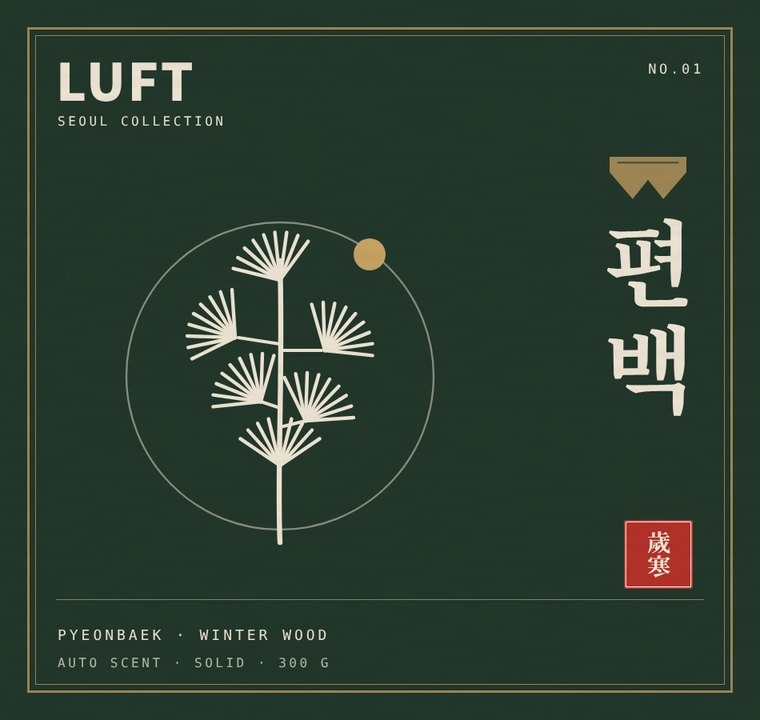
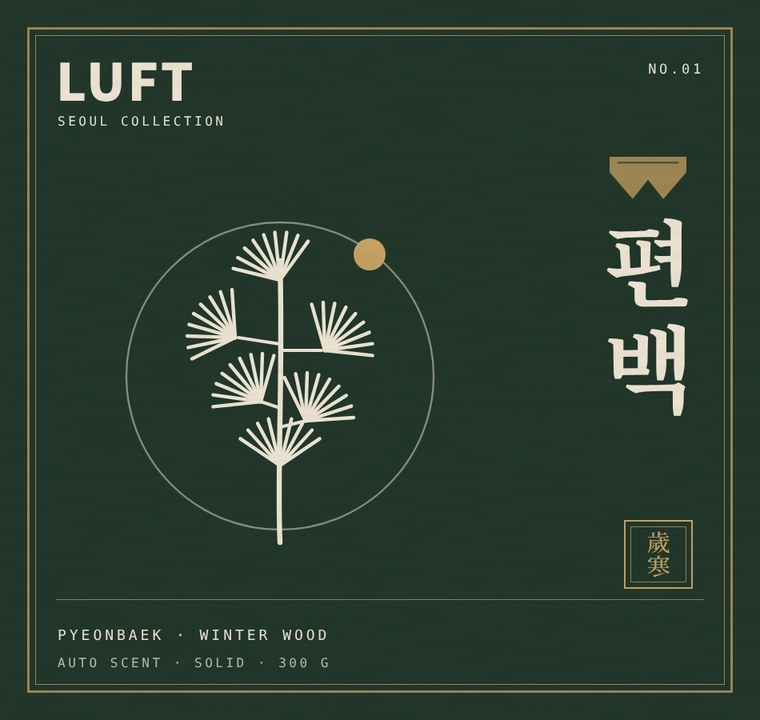
LUFT: 빨간 낙관 제거 → 금·먹 헤어라인 표식으로 교체 (사이트·패키지 이미지)
Claude-Session: https://claude.ai/code/session_01CHRf4KTcqoW5MpopzikoD1

Changed region(s): [[0.8171, 0.7028, 0.9382, 0.825]]

diff --git a/index.html b/index.html
@@ -370,10 +370,11 @@ body::after{content:"";position:fixed;inset:0;z-index:80;pointer-events:none;opa
 </style>
 <style>
 /* ===== 2026-11 개편: 케이스 + AUTO SCENT 전문. 고서 판식(이중 테두리)·어미·낙관을 포인트로 ===== */
-:root{--f-serif:"Noto Serif KR","Nanum Myeongjo",serif;--pine:#22372B;--celadon:#9FBBA9;--moon:#EEE9DF;--seal:#B5322A;--gold:#C9A464}
+:root{--f-serif:"Noto Serif KR","Nanum Myeongjo",serif;--pine:#22372B;--celadon:#9FBBA9;--moon:#EEE9DF;--gold:#C9A464}
 .pansik{position:relative;border:3px solid currentColor}
 .pansik::after{content:"";position:absolute;inset:6px;border:1px solid currentColor;pointer-events:none}
-.seal{display:inline-flex;flex-direction:column;align-items:center;justify-content:center;background:var(--seal);color:#F7EFE2;font-family:var(--f-serif);font-weight:700;line-height:1.02;border-radius:3px;box-shadow:inset 0 0 0 2px var(--seal),inset 0 0 0 3.5px #F7EFE2;letter-spacing:.02em;flex:none}
+.seal{position:relative;display:inline-flex;flex-direction:column;align-items:center;justify-content:center;background:transparent;font-family:var(--f-serif);font-weight:500;line-height:1.1;border:1px solid currentColor;letter-spacing:.02em;flex:none}
+.seal::after{content:"";position:absolute;inset:3px;border:.5px solid currentColor;opacity:.7;pointer-events:none}
 .seal .sl{all:unset;display:block;line-height:1.02;font:inherit;color:inherit;writing-mode:horizontal-tb}
 @media(max-width:520px){.trust .t b{font-size:17px;word-break:keep-all;line-height:1.3}.trust .t span{word-break:keep-all}}
 .eomi{display:inline-block;width:30px;height:16px;background:currentColor;clip-path:polygon(0 0,100% 0,100% 40%,70% 100%,50% 62%,30% 100%,0 40%)}
@@ -450,7 +451,7 @@ body::after{content:"";position:fixed;inset:0;z-index:80;pointer-events:none;opa
 @media (max-width:760px){.chap .row{grid-template-columns:1fr}.chap:nth-of-type(even) .row .art{order:0}}
 /* motion */
 @keyframes fanOut{from{transform:rotate(0)}to{transform:rotate(var(--r))}}
-@keyframes stampIn{0%,55%{opacity:0;transform:scale(1.8)}65%{opacity:1;transform:scale(.92)}72%,100%{opacity:1;transform:scale(1)}}
+@keyframes stampIn{0%,45%{opacity:0;transform:translateY(3px)}70%,100%{opacity:1;transform:none}}
 @keyframes drip{0%{transform:translateY(-40px);opacity:0}15%{opacity:1}55%{transform:translateY(58px);opacity:1}60%,100%{transform:translateY(58px);opacity:0}}
 @keyframes swirl{to{transform:rotate(360deg)}}
 @keyframes fillUp{0%,10%{transform:scaleY(.15)}60%,100%{transform:scaleY(1)}}
@@ -1120,7 +1121,8 @@ const SCENTS=[
  {k:'yuzu',ko:'청자',han:'翡色',hanR:'비색',en:'CELADON · YUZU',no:'02',note:'유자 · 청귤 · 산뜻한 초록',line:'고려 사람들은 청자의 빛을 비색(翡色)이라 했어요. 그 푸른 빛 위로 떨어진 노란 유자 한 알.',bg:'#9FBBA9',ink:'#183428',ln:'rgba(24,52,40,.55)',hb:'#EFE3C4'},
  {k:'tea',ko:'달항아리',han:'白',hanR:'백',en:'MOON JAR · KOREAN TEA',no:'03',note:'한국 차 · 따뜻한 김 · 포근함',line:'넉넉하게 둥근 백자 달항아리, 그 곁에 놓인 따뜻한 차 한 잔의 향.',bg:'#EEE9DF',ink:'#2A2722',ln:'rgba(42,39,34,.5)',hb:'#EDE2D6'}];
 const NOTIFY_URL='https://formsubmit.co/ajax/probe2928@gmail.com';
-const sealH=(t,sz=36)=>`<span class="seal" style="width:${sz}px;height:${sz}px;font-size:${t.length>1?sz*.36:sz*.56}px">${[...t].map(c=>`<span class="sl">${c}</span>`).join("")}</span>`;
+const MK={pine:"#C9A464",yuzu:"#183428",tea:"#2A2722"};
+const sealH=(t,sz=36,c)=>`<span class="seal" style="${c?`color:${c};`:""}width:${sz}px;height:${sz}px;font-size:${t.length>1?sz*.36:sz*.56}px">${[...t].map(c=>`<span class="sl">${c}</span>`).join("")}</span>`;
 function filmHTML(){const rm=matchMedia('(prefers-reduced-motion: reduce)').matches,v=matchMedia('(max-aspect-ratio: 1/1)').matches,o=v?'v':'h';
  return `<section class="lx-film" aria-label="LUFT AUTO SCENT 브랜드 필름">${rm?`<img src="img/scent/film-poster-${o}.jpg" alt="LUFT AUTO SCENT 브랜드 필름 장면 — 편백 歲寒">`:`<video id="lxFilm" src="video/luft-film-${o}.mp4" poster="img/scent/film-poster-${o}.jpg" autoplay muted loop playsinline preload="metadata" aria-label="LUFT AUTO SCENT 20초 브랜드 필름"></video>`}
  <div class="fo"><a class="cta" href="#scent">출시 알림 받기 <span class="arr">→</span></a><a class="cta ghostbtn" href="#story">만든 이야기</a></div></section>`}
@@ -1141,7 +1143,7 @@ function heroHTML(){const s=SCENTS[0];return `<section class="lx-hero" id="lxHer
 function scentCard(x){return `<a class="sc-card pansik reveal" href="#scent" style="--cb:${x.bg};--ci:${x.ink};--cl:${x.ln}">
  <span class="no">NO.${x.no} · ${x.en}</span>
  <img src="img/scent/jar-${x.k}.webp" alt="${x.ko} ${x.han} 용기 디자인 시안" loading="lazy" decoding="async">
- <div class="nm"><span class="eomi" style="color:${x.ln}"></span><h3>${x.ko}</h3>${sealH(x.han)}</div>
+ <div class="nm"><span class="eomi" style="color:${x.ln}"></span><h3>${x.ko}</h3>${sealH(x.han,38,MK[x.k])}</div>
  <p>${x.line}</p><div class="notes">${x.note}</div></a>`}
 function scentHTML(){return `<section class="sc-sec" id="auto-scent"><div class="wrap">
  <div class="sc-head reveal"><div><span class="sc-tag">COMING SOON · 출시 예정</span><h2>AUTO<br>SCENT</h2></div>
@@ -1164,7 +1166,7 @@ function nfHTML(id){return `<form class="nf pansik" id="${id}" novalidate>
  <button class="cta" type="submit" style="margin-top:12px">알림 받기 <span class="arr">→</span></button>
  <div class="st" role="status" aria-live="polite"></div></form>`}
 const ART={
- find:`<svg viewBox="0 0 200 200" fill="none" stroke="currentColor" stroke-width="1.4">${[-40,-20,0,20,40].map((r,i)=>`<g class="fan" style="--r:${r}deg;animation-delay:${i*90}ms"><rect x="93" y="44" width="14" height="128" rx="2" fill="#FFFDF8"/><path d="M96 150 h8 M96 155 h8" opacity=".5"/></g>`).join('')}<circle cx="100" cy="172" r="4" fill="currentColor"/><g class="stamp mv"><rect x="87" y="30" width="26" height="26" rx="2" fill="#B5322A" stroke="none"/><text x="100" y="49" text-anchor="middle" font-size="15" fill="#F7EFE2" stroke="none" font-family="Noto Serif KR,serif" font-weight="700">香</text></g></svg>`,
+ find:`<svg viewBox="0 0 200 200" fill="none" stroke="currentColor" stroke-width="1.4">${[-40,-20,0,20,40].map((r,i)=>`<g class="fan" style="--r:${r}deg;animation-delay:${i*90}ms"><rect x="93" y="44" width="14" height="128" rx="2" fill="#FFFDF8"/><path d="M96 150 h8 M96 155 h8" opacity=".5"/></g>`).join('')}<circle cx="100" cy="172" r="4" fill="currentColor"/><g class="stamp mv"><rect x="87" y="30" width="26" height="26" fill="#FFFDF8" stroke="currentColor" stroke-width="1"/><rect x="90" y="33" width="20" height="20" fill="none" stroke="currentColor" stroke-width=".5" opacity=".7"/><text x="100" y="48" text-anchor="middle" font-size="12" fill="currentColor" stroke="none" font-family="Noto Serif KR,serif" font-weight="500">香</text></g></svg>`,
  blend:`<svg viewBox="0 0 200 200" fill="none" stroke="currentColor" stroke-width="1.6"><defs><clipPath id="bk"><path d="M70 92 h60 v66 a12 12 0 0 1 -12 12 h-36 a12 12 0 0 1 -12 -12z"/></clipPath></defs>
   <g clip-path="url(#bk)"><rect class="liq" x="66" y="104" width="68" height="70" fill="#C9D8B8" stroke="none"/></g><path d="M70 92 h60 v66 a12 12 0 0 1 -12 12 h-36 a12 12 0 0 1 -12 -12z"/><path d="M64 92 h72"/>
   ${[['#2E4A39',82,0],['#E9C23F',100,.8],['#D8CBB2',118,1.6]].map(([c,x,d])=>`<circle class="drop" cx="${x}" cy="40" r="6" fill="${c}" stroke="none" style="animation-delay:${d}s"/>`).join('')}
@@ -1173,9 +1175,9 @@ const ART={
   <g font-family="Noto Serif KR,serif" font-size="22" font-weight="700" fill="currentColor" stroke="none" text-anchor="middle"><text class="v1" x="100" y="108">다시</text><text class="v2" x="100" y="108">또 다시</text><text class="v3" x="100" y="108">한 번 더</text></g></svg>`,
  vessel:`<svg viewBox="0 0 200 200" fill="none" stroke="currentColor" stroke-width="1.6"><path class="dr" style="--len:520" d="M56 62 h88 v104 a8 8 0 0 1 -8 8 h-72 a8 8 0 0 1 -8 -8z"/><path class="dr" style="--len:200;animation-delay:.4s" d="M52 44 h96 v18 h-96z"/>
   <path class="dr" style="--len:300;animation-delay:.9s" stroke-width="2.4" d="M62 92 h76 v52 h-76z"/><path class="dr" style="--len:290;animation-delay:1.1s" stroke-width=".8" d="M66 96 h68 v44 h-68z"/>
-  <g class="stamp mv" style="animation-duration:4s"><rect x="114" y="122" width="16" height="16" fill="#B5322A" stroke="none"/></g><path d="M80 104 v28 M88 104 v20" stroke-width="3" opacity=".75"/></svg>`,
+  <g class="stamp mv" style="animation-duration:4s"><rect x="114" y="122" width="16" height="16" fill="none" stroke="currentColor" stroke-width="1"/><rect x="116.5" y="124.5" width="11" height="11" fill="none" stroke="currentColor" stroke-width=".5" opacity=".7"/></g><path d="M80 104 v28 M88 104 v20" stroke-width="3" opacity=".75"/></svg>`,
  keep:`<svg viewBox="0 0 200 200" fill="currentColor" font-family="Noto Sans KR,IBM Plex Sans KR,sans-serif" font-size="13">
-  ${[['화려한 겉포장',0],['좋은 향',1],['남는 장식',0],['넉넉한 300g',1],['과한 용기 장식',0],['한국의 아름다움',1]].map(([t,k],i)=>`<g transform="translate(36 ${40+i*24})">${k?`<circle cx="4" cy="-4" r="4" fill="#B5322A"/><text x="16" y="0" font-weight="700">${t}</text>`:`<g class="fd"><text x="16" y="0">${t}</text></g><rect class="sx" x="12" y="-5" width="${t.length*13+8}" height="1.6" style="animation-delay:${i*.2}s"/>`}</g>`).join('')}</svg>`
+  ${[['화려한 겉포장',0],['좋은 향',1],['남는 장식',0],['넉넉한 300g',1],['과한 용기 장식',0],['한국의 아름다움',1]].map(([t,k],i)=>`<g transform="translate(36 ${40+i*24})">${k?`<rect x="1" y="-7" width="6" height="6" fill="none" stroke="currentColor" stroke-width="1" transform="rotate(45 4 -4)"/><text x="16" y="0" font-weight="700">${t}</text>`:`<g class="fd"><text x="16" y="0">${t}</text></g><rect class="sx" x="12" y="-5" width="${t.length*13+8}" height="1.6" style="animation-delay:${i*.2}s"/>`}</g>`).join('')}</svg>`
 };
 const CHAPS=[
  ['01','향을 찾다','find','향 하나 고르는 데도 오래 걸렸어요. 공장 5곳 넘게 직접 찾아가 맡아 보고, 마음에 드는 향은 시향지에 묻혀 와 다시 맡았어요.','#F3E9DC'],
